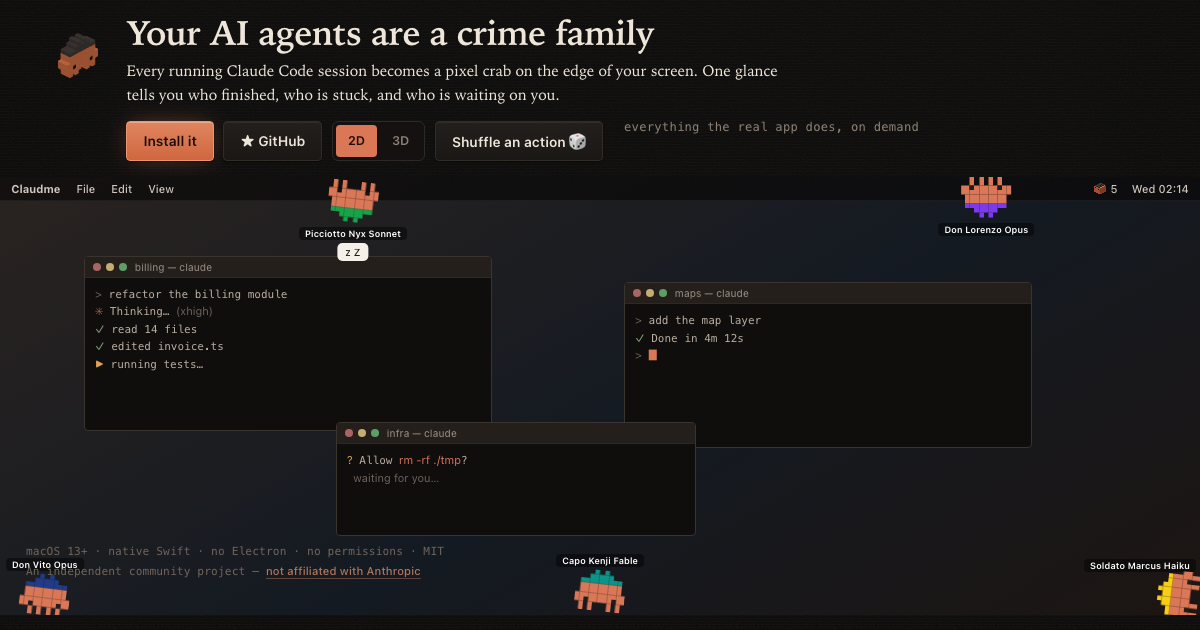
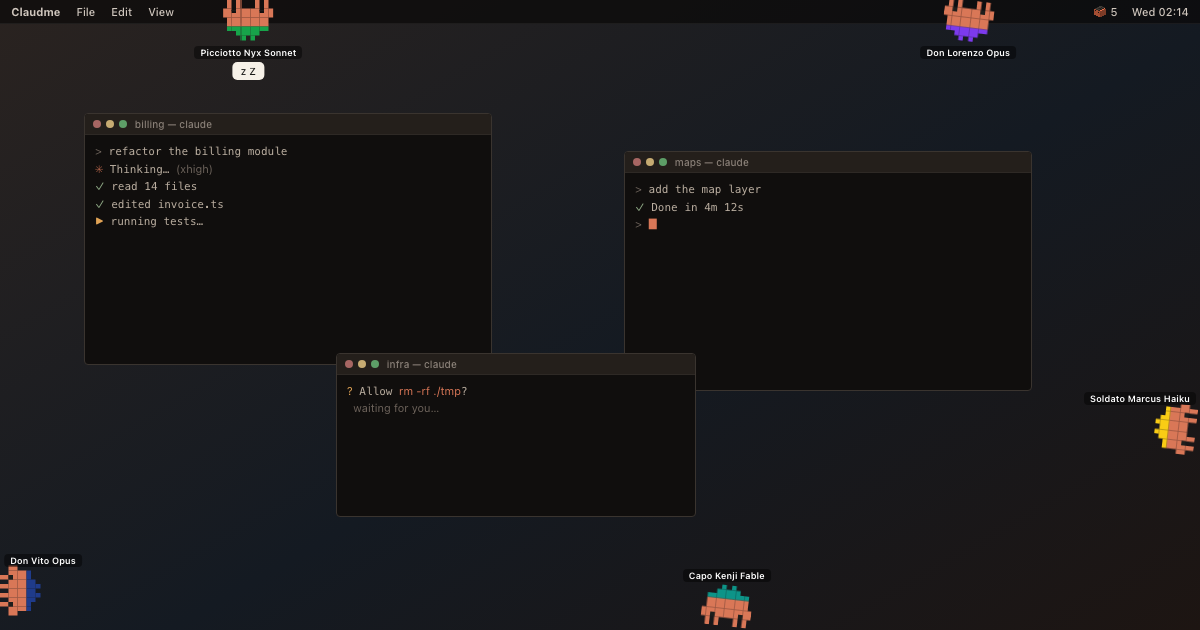
Make the share card the demo alone, captured from the real page
og.html was a separate file pretending to look like the page, which is
exactly why it drifted: the site went dark and the mock stayed in the
teal Windows-95 palette. The page now understands ?og, which strips it
to the desktop mock, and make-og.sh screenshots that at 1200x630 -- so
the card is the product and cannot fall out of sync again.

The previous card also carried the headline, the paragraph, four buttons
and the licence line, which is unreadable at the size these render.

diff --git a/docs/index.html b/docs/index.html
@@ -494,6 +494,20 @@
   .screen pre,.screen .win pre{font-family:var(--mono)}
   .deskcredit{font-family:var(--mono)}
 
+  /* ---- ?og : the share card ----
+     Strips the page down to the demo so the card is the product and nothing else.
+     Still the real page, so the card can never drift from what people land on. */
+  body.ogshot .hero,
+  body.ogshot .cta,
+  body.ogshot .shuffle-hint,
+  body.ogshot .deskcredit,
+  body.ogshot .track > section,
+  body.ogshot .track > footer{display:none!important}
+  body.ogshot .track > header{height:100dvh;padding:0}
+  body.ogshot .track > header > .wrap{padding:0;height:100%}
+  body.ogshot .track > header .stage{margin:0;width:100%;margin-left:0;transform:none}
+  body.ogshot .track > header .screen{height:100dvh;min-height:0}
+
   /* ==== THEME:START ==== After Hours — The family works at night: a near-black desk lit by one warm lamp overhead, charcoal windows set in bone-warm type, and the crab's terracotta as the only colour in the room. */
   :root{
     --desk:#0a0908; --desk2:#050404;
@@ -1515,6 +1529,9 @@ open build/Claudme.app</pre>
   requestAnimationFrame(frame);
 })();
 
+
+/* the OG capture loads the page with ?og so the card is the demo alone */
+if (new URLSearchParams(location.search).has('og')) document.body.classList.add('ogshot');
 
 </script>
 
